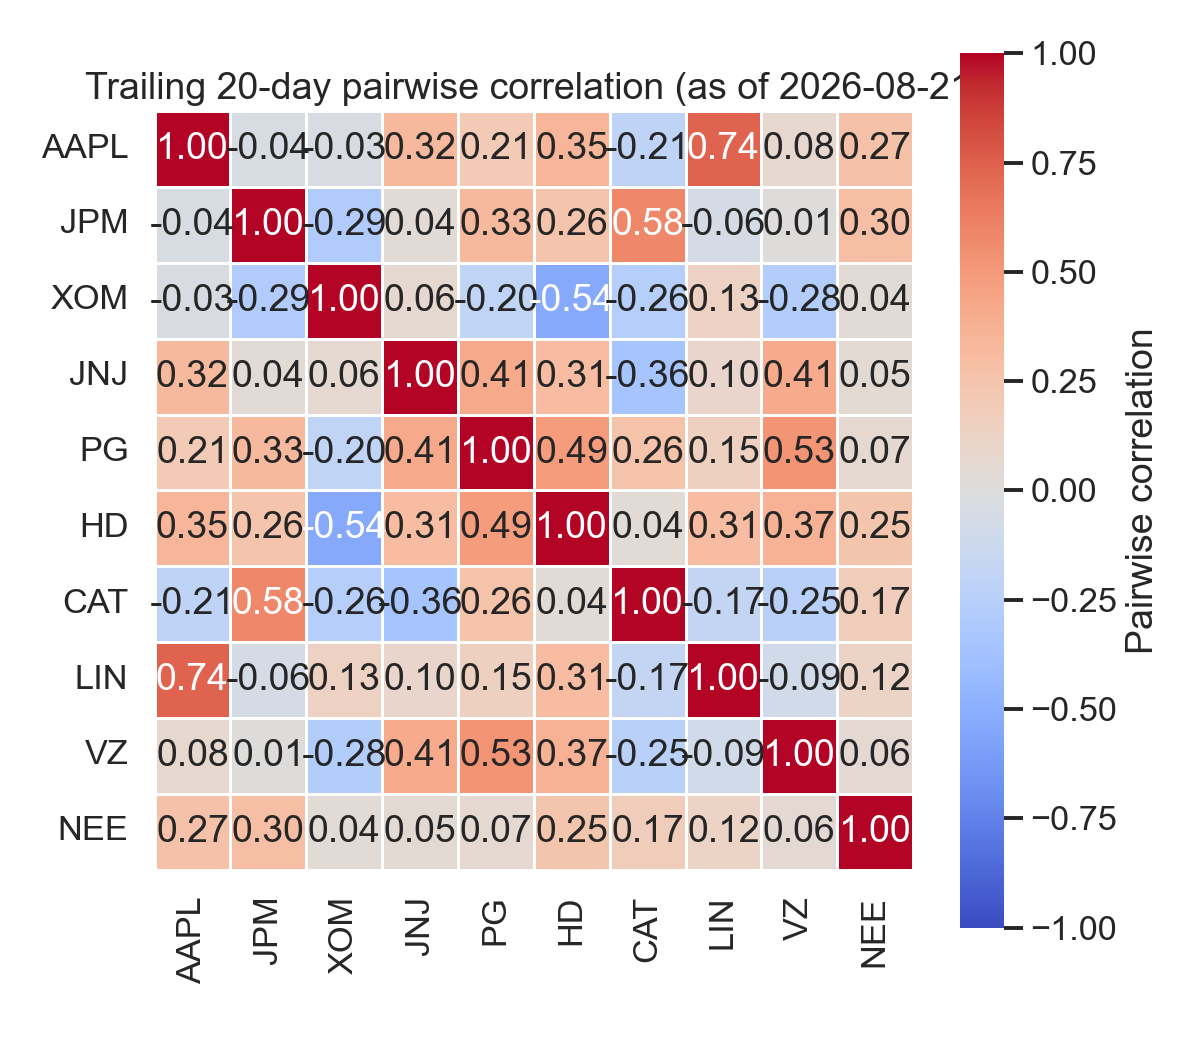
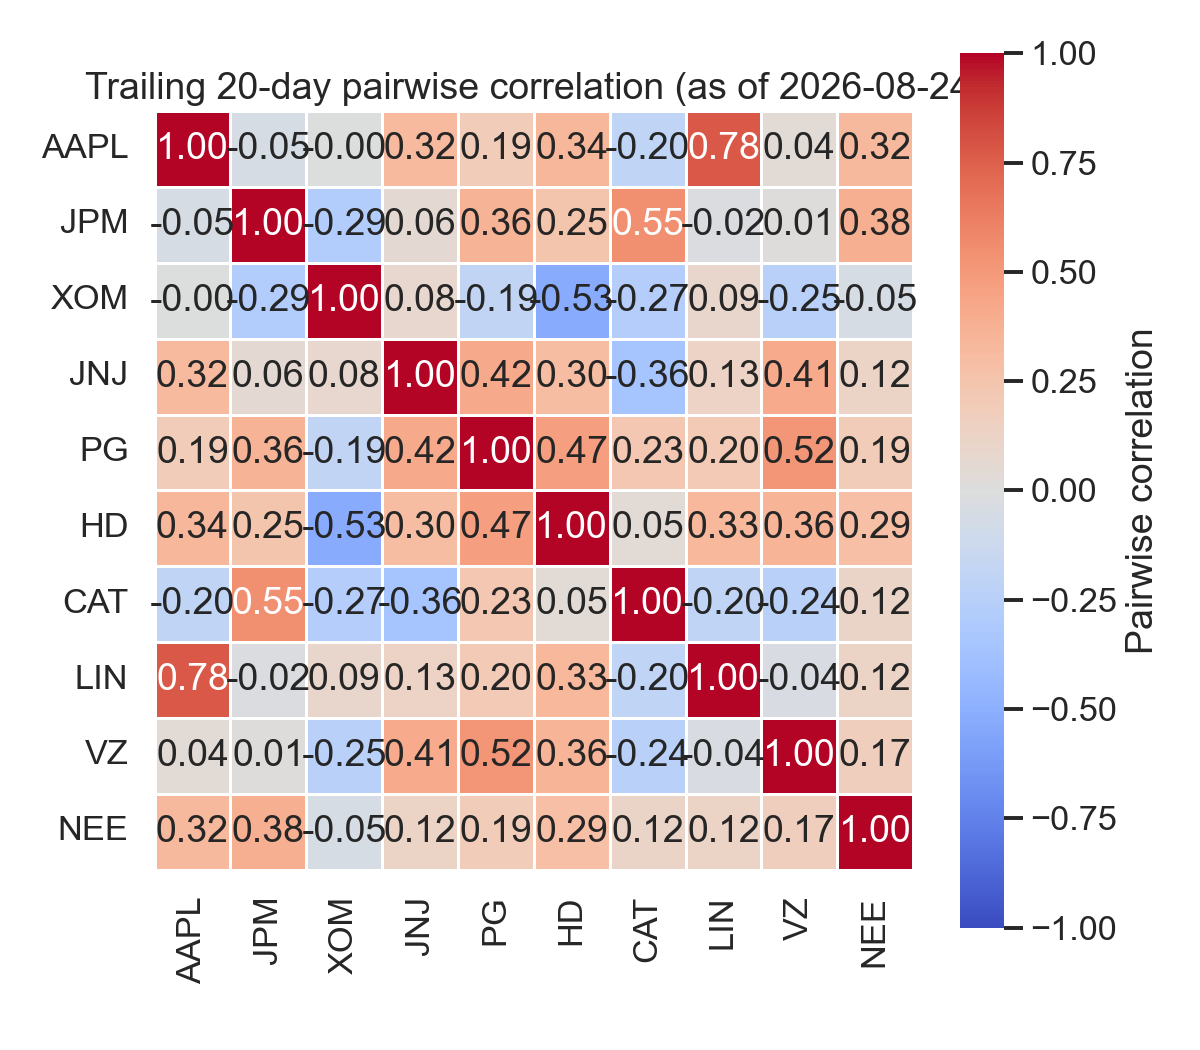
Rough up comments and code style to be less polished

diff --git a/src/analysis.py b/src/analysis.py
@@ -28,10 +28,13 @@ def cross_correlation(x: pd.Series, y: pd.Series, max_lag: int) -> pd.Series:
     x_s = df.iloc[:, 0]
     y_s = df.iloc[:, 1]
 
+    # not the cleanest way to do this (could probably do it in one line
+    # with a dict comprehension) but this is easier for me to read
     results = {}
     for lag in range(-max_lag, max_lag):
         shifted_y = y_s.shift(-lag)
-        results[lag] = x_s.corr(shifted_y)
+        corr_at_lag = x_s.corr(shifted_y)
+        results[lag] = corr_at_lag
 
     out = pd.Series(results)
     out = out.sort_index()
@@ -47,7 +50,7 @@ def identify_spike_events(z: pd.Series, threshold: float = 1.5, min_gap: int = 1
     """
     crossings = z.index[(z > threshold) & (z.shift(1) <= threshold)]
     if len(crossings) == 0:
-        return crossings
+        return crossings  # nothing crossed the threshold at all, nothing to do here
     # using position in the index (trading days) instead of real calendar
     # days - otherwise a Friday -> Monday gap counts as 3 days when it's
     # really just 1 trading day apart
@@ -65,7 +68,7 @@ def event_study(vix: pd.Series, events: pd.DatetimeIndex, horizon: int = 10) -> 
     stretch, using a t-test that doesn't assume both groups have the same
     amount of spread (the spike group is a lot smaller).
     """
-    fwd_change = vix.pct_change(horizon).shift(-horizon)
+    fwd_change = vix.pct_change(horizon).shift(-horizon)  # % change from t to t+horizon, but shifted back so it lines up with day t
     event_changes = fwd_change.reindex(events).dropna()
     # gotta pull the event days OUT of the "normal" comparison group, or
     # else the comparison secretly includes the exact days it's supposed to

diff --git a/src/data.py b/src/data.py
@@ -32,10 +32,15 @@ VIX_TICKER = "^VIX"
 def download_prices(tickers: list[str], start: str, end: str | None = None) -> pd.DataFrame:
     """Grabs daily close prices for `tickers`, adjusted for splits/dividends."""
     raw = yf.download(tickers, start=start, end=end, auto_adjust=True, progress=False)
+    # raw['Adj Close'] used to be the one to use but newer yfinance folds
+    # the adjustment into 'Close' automatically now (auto_adjust=True), so
+    # 'Adj Close' doesn't even exist as a column anymore. took me a while
+    # to figure out why my old code was throwing a KeyError lol
     closes = raw["Close"]
     if isinstance(closes, pd.Series):
         closes = closes.to_frame(tickers[0])
-    return closes.ffill().dropna(how="all")
+    df = closes.ffill().dropna(how="all")
+    return df
 
 
 def load_basket_and_vix(
@@ -47,8 +52,11 @@ def load_basket_and_vix(
     trading days so nothing later has to worry about mismatched calendars.
     """
     basket = basket or DEFAULT_BASKET
-    tickers = list(basket.keys())
+    tickers = list(basket.keys())  # just the ticker symbols, don't need the sector names here
     basket_prices = download_prices(tickers, start, end)
     vix = download_prices([VIX_TICKER], start, end)[VIX_TICKER].rename("VIX")
+    # inner join so we only keep dates where BOTH the basket and the VIX
+    # actually have a price - VIX and stocks are usually on the same
+    # calendar anyway but better safe than sorry
     aligned = basket_prices.join(vix, how="inner").dropna()
     return aligned[tickers], aligned["VIX"]

diff --git a/src/correlation.py b/src/correlation.py
@@ -40,7 +40,7 @@ def average_pairwise_correlation(returns: pd.DataFrame, window: int) -> pd.Serie
     Averaging every unique pair (not just each stock vs. the overall
     average) so no single stock can quietly dominate the number.
     """
-    n = returns.shape[1]
+    n = returns.shape[1]  # number of stocks in the basket
     corr = returns.rolling(window).corr()
 
     # add up each stock's row of correlations (n numbers, including its own
@@ -52,7 +52,10 @@ def average_pairwise_correlation(returns: pd.DataFrame, window: int) -> pd.Serie
     total = row_sums.groupby(level=0).sum(min_count=n)
 
     # total right now = n diagonal 1.0s + 2x every unique pair's correlation
+    # (draw it out on paper for a 3x3 matrix if this doesn't make sense, it
+    # took me a minute to convince myself this was right too)
     n_pairs = n * (n - 1)
     avg = (total - n) / n_pairs
     avg.name = "avg_pairwise_corr"
-    return avg.dropna()
+    avg = avg.dropna()
+    return avg

diff --git a/src/visualize.py b/src/visualize.py
@@ -15,7 +15,7 @@ import seaborn as sns
 sns.set_theme(style="white", context="talk")
 
 BLUE = "#0072B2"
-VERMILLION = "#D55E00"
+VERMILLION = "#D55E00"  # this is actually more of an orange/red but that's what the palette calls it
 
 
 def plot_correlation_heatmap(corr_matrix: pd.DataFrame, title: str, path: str) -> None:
@@ -23,7 +23,7 @@ def plot_correlation_heatmap(corr_matrix: pd.DataFrame, title: str, path: str) -
     correlation can be positive (moves together), zero (no relationship),
     or negative (moves opposite).
     """
-    fig, ax = plt.subplots(figsize=(8, 7))
+    fig, ax = plt.subplots(figsize=(8, 7))  # figsize is trial and error honestly, this just looked right
     sns.heatmap(
         corr_matrix,
         vmin=-1,

diff --git a/main.py b/main.py
@@ -32,10 +32,10 @@ from src.visualize import (
 START_DATE = "2015-01-01"  # ~10 years - long enough to span several VIX regimes (2018, 2020, 2022, 2025)
 CORR_WINDOW = 20  # trading days (~1 month) for the rolling correlation
 ZSCORE_LOOKBACK = 252  # 1 trading year, for defining a "spike" relative to recent history
-SPIKE_THRESHOLD = 1.5  # standard deviations
+SPIKE_THRESHOLD = 1.5  # standard deviations, picked this kind of arbitrarily, might play with it later
 EVENT_HORIZON = 10  # trading days forward when measuring VIX's reaction
 MAX_LAG = 20  # trading days, for cross-correlation and Granger tests
-OUTPUT_DIR = "output"
+OUTPUT_DIR = "output"  # everything gets dumped in here
 
 
 def main() -> None:
